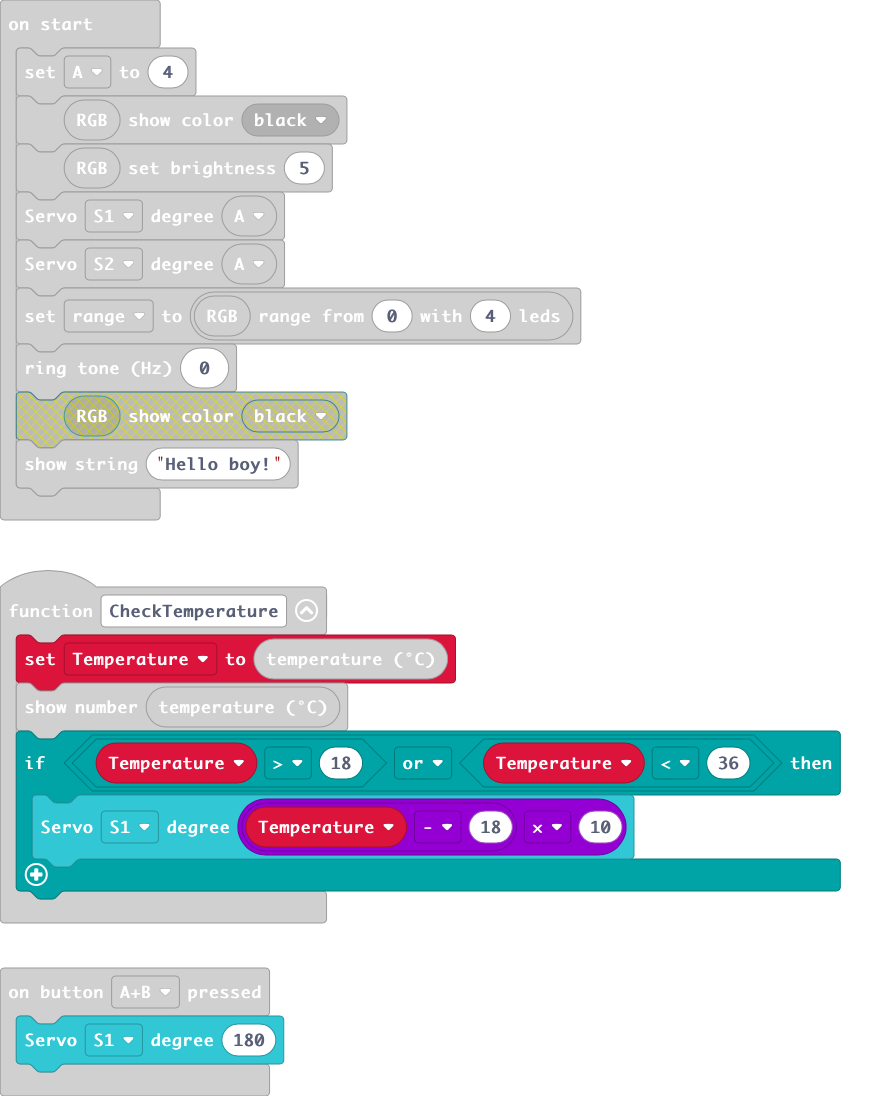
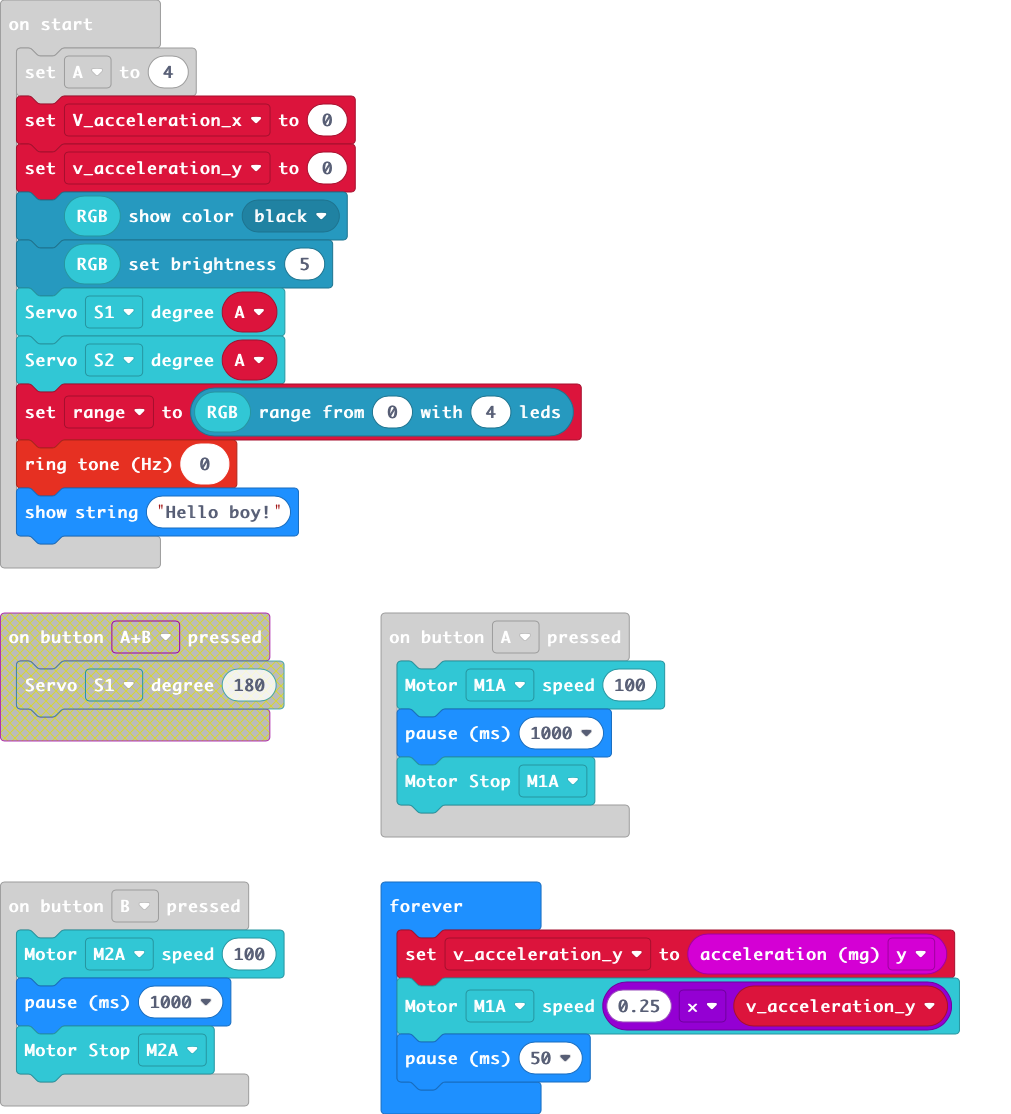
Update main.blocks, main.ts

diff --git a/main.ts b/main.ts
@@ -1,8 +1,7 @@
 input.onButtonPressed(Button.A, function () {
-    for (let A = 0; A <= 10; A++) {
-        basic.pause(1000)
-        CheckTemperature()
-    }
+    robotbit.MotorRun(robotbit.Motors.M1A, 100)
+    basic.pause(1000)
+    robotbit.MotorStop(robotbit.Motors.M1A)
 })
 function CheckTemperature () {
     Temperature = input.temperature()
@@ -11,20 +10,15 @@ function CheckTemperature () {
         robotbit.Servo(robotbit.Servos.S1, (Temperature - 18) * 10)
     }
 }
-input.onButtonPressed(Button.AB, function () {
-    robotbit.Servo(robotbit.Servos.S1, 180)
-})
 input.onButtonPressed(Button.B, function () {
-    for (let A = 0; A <= 180; A++) {
-        robotbit.Servo(robotbit.Servos.S1, A)
-        basic.showNumber(A)
-        basic.pause(200)
-        A += 20
-        robotbit.rgb().showColor(neopixel.rgb(randint(0, 255), randint(0, 255), randint(0, 255)))
-    }
+    robotbit.MotorRun(robotbit.Motors.M2A, 100)
+    basic.pause(1000)
+    robotbit.MotorStop(robotbit.Motors.M2A)
 })
 let Temperature = 0
 let A = 4
+let V_acceleration_x = 0
+let v_acceleration_y = 0
 robotbit.rgb().showColor(neopixel.colors(NeoPixelColors.Black))
 robotbit.rgb().setBrightness(5)
 robotbit.Servo(robotbit.Servos.S1, A)
@@ -32,3 +26,8 @@ robotbit.Servo(robotbit.Servos.S2, A)
 let range = robotbit.rgb().range(0, 4)
 music.ringTone(0)
 basic.showString("Hello boy!")
+basic.forever(function () {
+    v_acceleration_y = input.acceleration(Dimension.Y)
+    robotbit.MotorRun(robotbit.Motors.M1A, 0.25 * v_acceleration_y)
+    basic.pause(50)
+})
